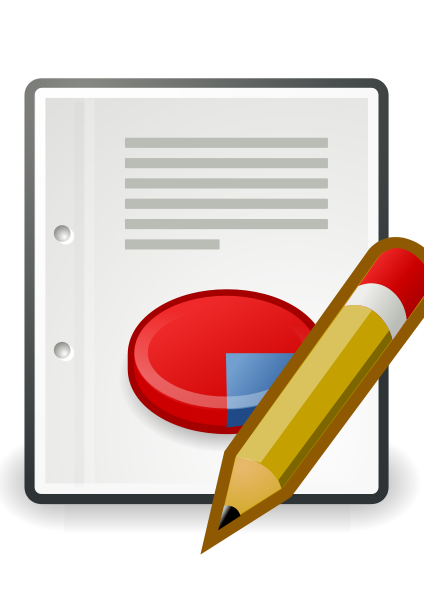
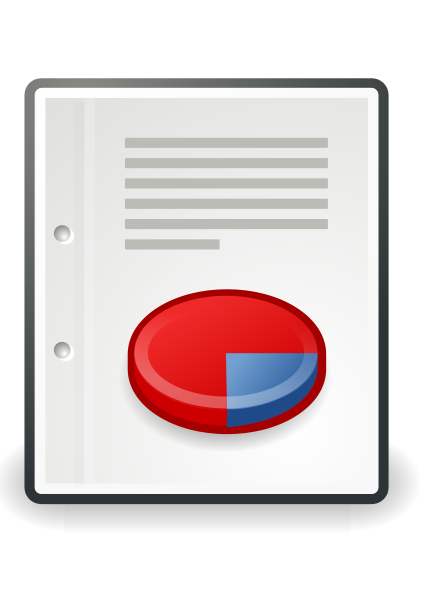
Replace report png
Closes #13

Changed region(s): [[0.4599, 0.39, 1.0, 0.93]]

diff --git a/index.html b/index.html
@@ -150,7 +150,7 @@ class:center
 # Reports don't make you data driven
 
 ![img-center-45](images/datadriven_reports.png)
-.caption[Image Credit: RRZEicons, [CC BY-SA 3.0](http://creativecommons.org/licenses/by-sa/3.0), via [Wikimedia Commons](https://commons.wikimedia.org/wiki/File%3AReport-edit.svg)]
+.caption[Image Credit: RRZEicons, [CC BY-SA 3.0](http://creativecommons.org/licenses/by-sa/3.0), via [Wikimedia Commons](https://commons.wikimedia.org/wiki/File:Report.svg)]
 
 ---
 
